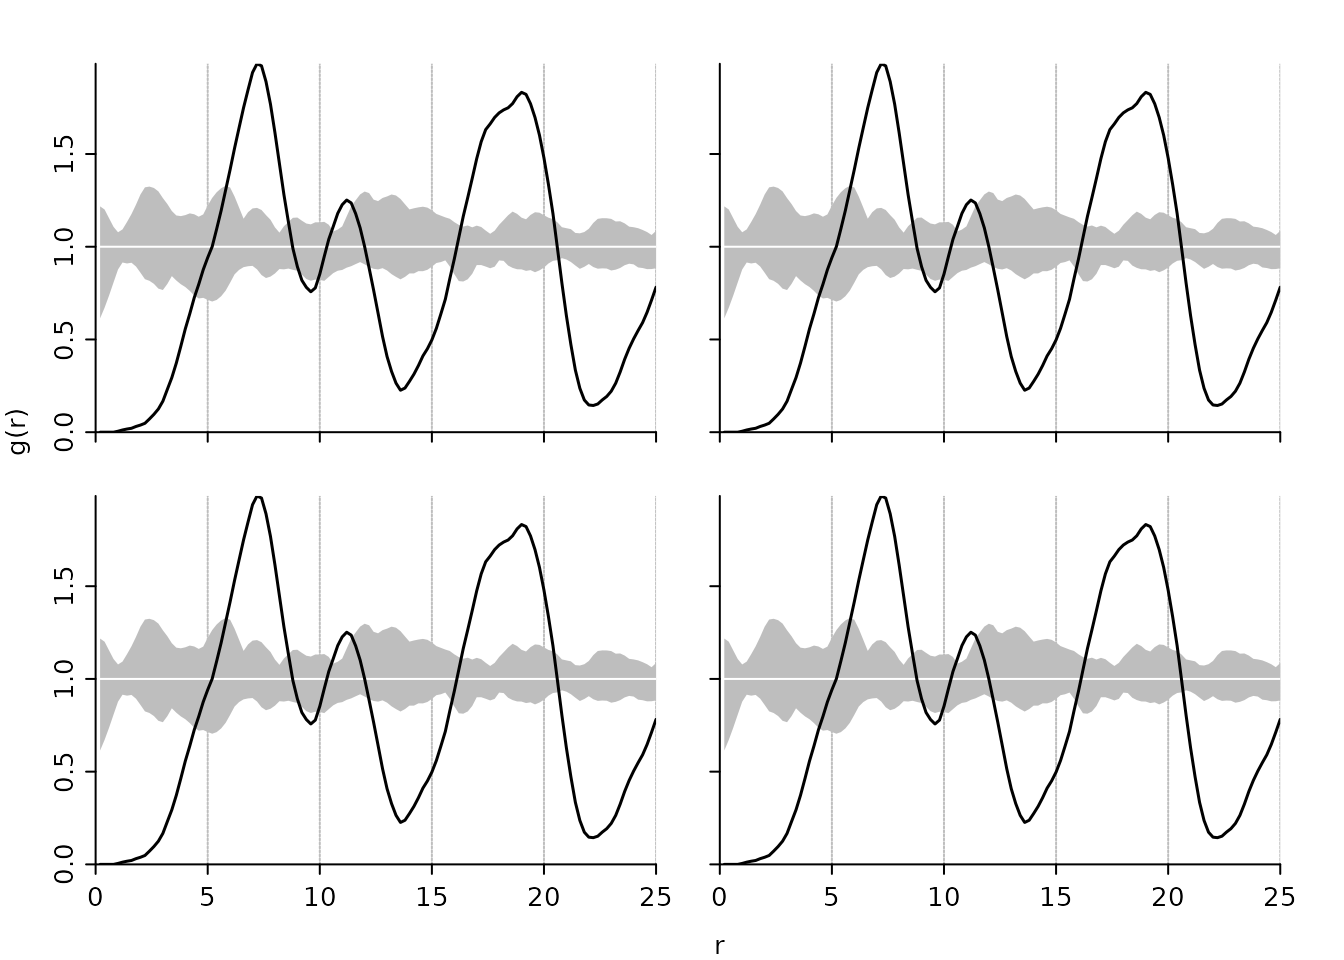
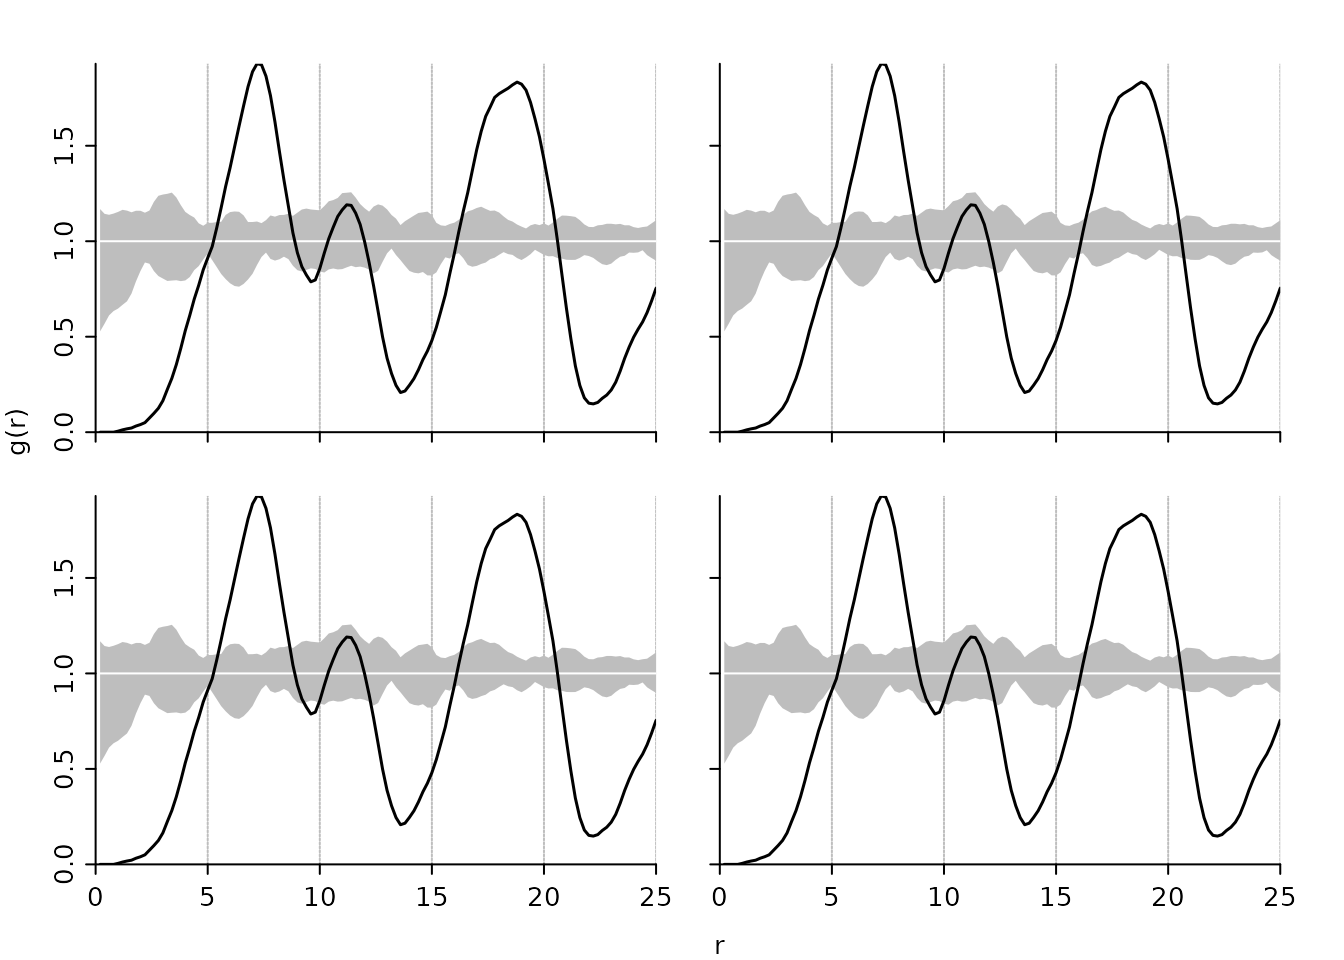
Built site for apcf: 0.1.6.901@08c5671

diff --git a/articles/intro.html b/articles/intro.html
@@ -148,12 +148,12 @@
 <span class="co">## Significance level of pointwise Monte Carlo test: 0.2</span>
 <span class="co">## </span>
 <span class="co">##     r           g       lwr      upr</span>
-<span class="co">## 1 0.2 0.000000000 0.6137508 1.217723</span>
-<span class="co">## 2 0.4 0.000000000 0.6711592 1.200799</span>
-<span class="co">## 3 0.6 0.000000000 0.7368618 1.153738</span>
-<span class="co">## 4 0.8 0.000000000 0.8075651 1.107217</span>
-<span class="co">## 5 1.0 0.005234935 0.8774038 1.078053</span>
-<span class="co">## 6 1.2 0.011958196 0.9149319 1.093532</span></code></pre></div>
+<span class="co">## 1 0.2 0.000000000 0.5277570 1.168432</span>
+<span class="co">## 2 0.4 0.000000000 0.5684225 1.143444</span>
+<span class="co">## 3 0.6 0.000000000 0.6116948 1.138491</span>
+<span class="co">## 4 0.8 0.000000000 0.6342626 1.144802</span>
+<span class="co">## 5 1.0 0.005334753 0.6472585 1.153521</span>
+<span class="co">## 6 1.2 0.012274978 0.6667807 1.164483</span></code></pre></div>
 </div>
 <div id="plotting-the-pcf" class="section level2">
 <h2 class="hasAnchor">
